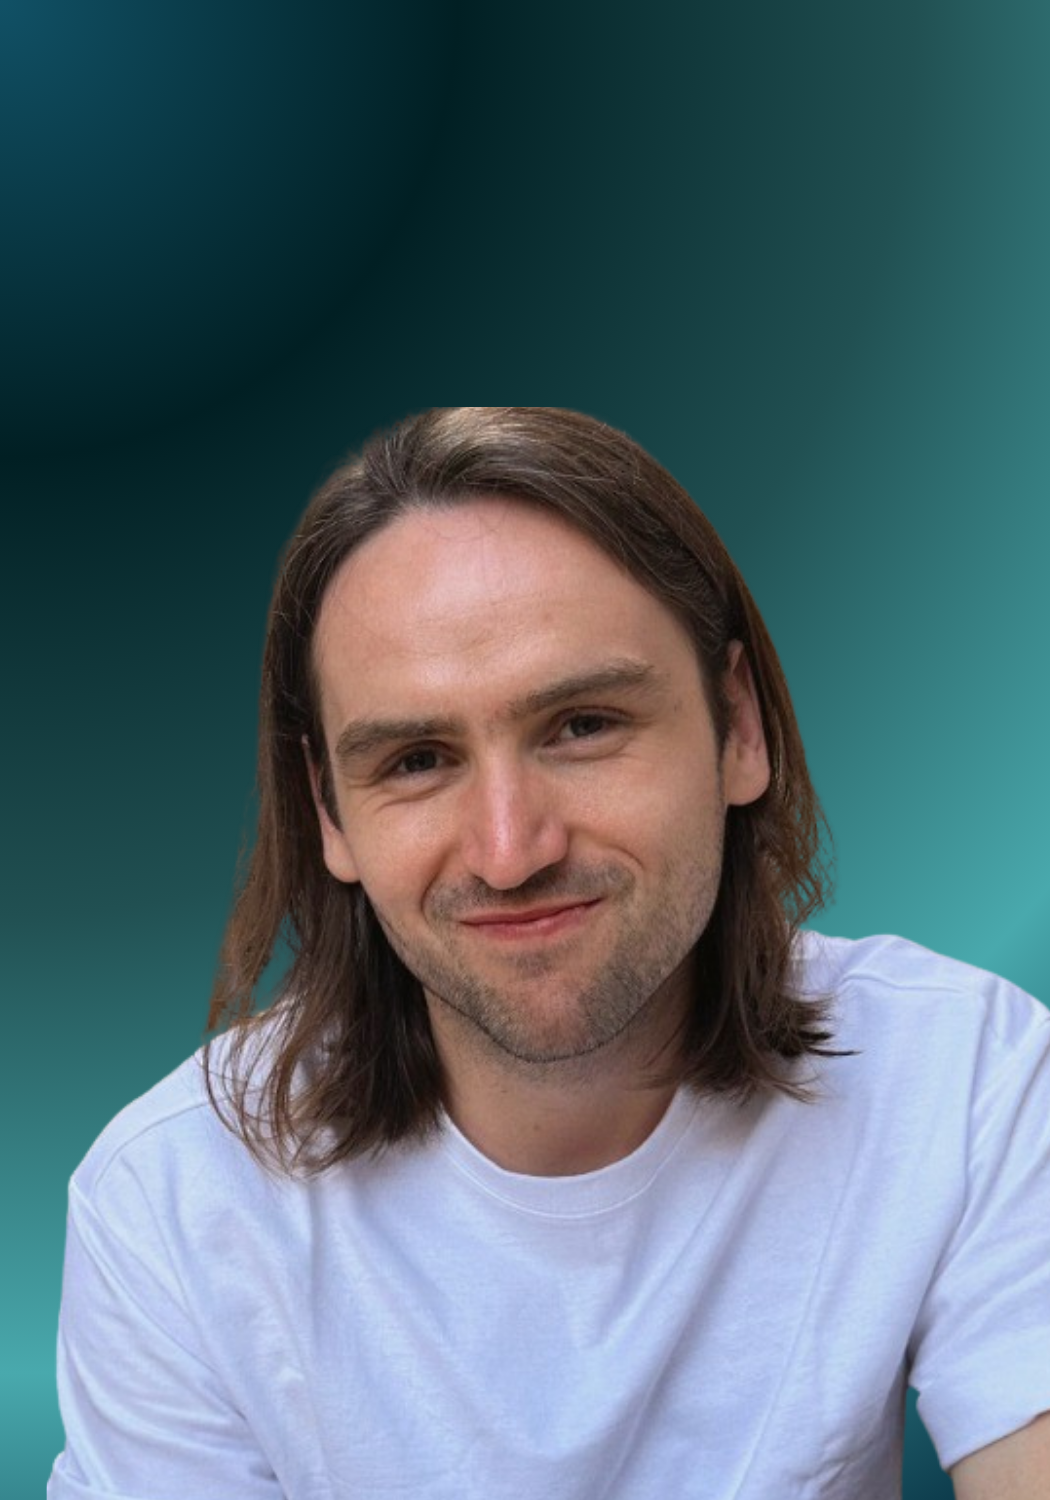
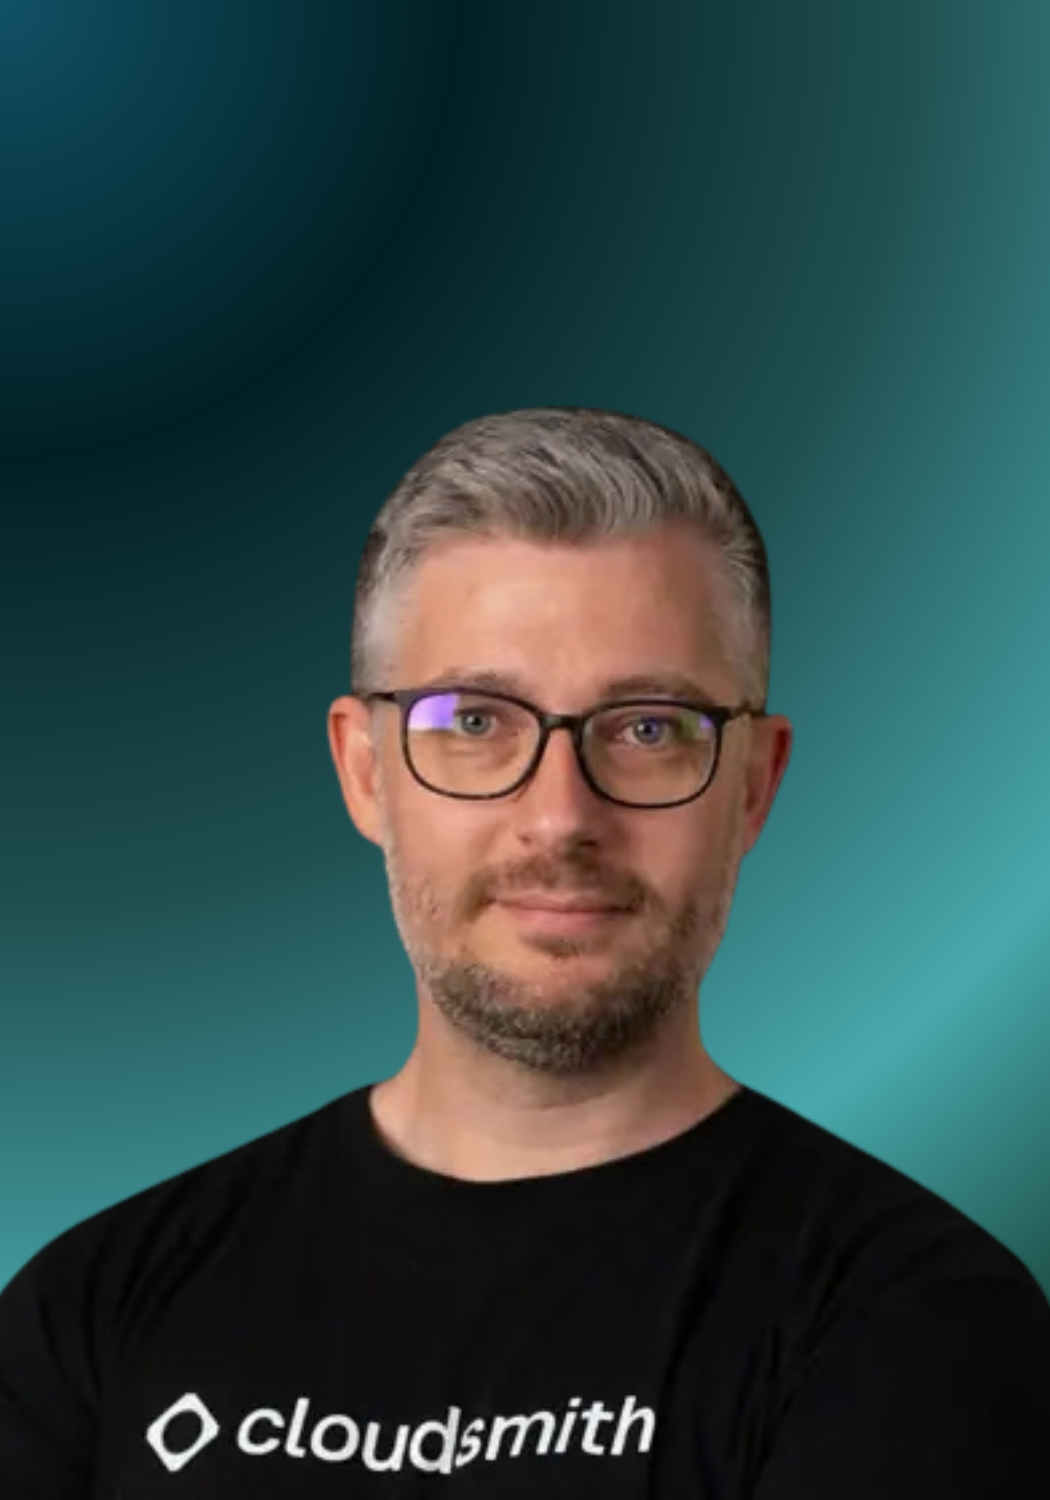
new speaker added

diff --git a/src/data/speakers.ts b/src/data/speakers.ts
@@ -9,6 +9,13 @@ export const speakers: Speaker[] = [
     linkedin: "https://www.linkedin.com/in/chrisbarbin/",
   },
   {
+    name: "Dara Hayes",
+    role: "Senior Software Engineer",
+    company: "Cloudsmith",
+    photo: "/assets/guests/dara-hayes.webp",
+    linkedin: "https://www.linkedin.com/in/dara-hayes-b264685a/",
+  },
+  {
     name: "Eran Gil",
     role: "CEO",
     company: "AllCloud",
@@ -68,7 +75,7 @@ export const speakers: Speaker[] = [
     name: "Nick Peacock",
     role: "VP Customer Success",
     company: "Cloudsmith",
-    photo: "/assets/guests/Nick-Peacock.webp",
+    photo: "/assets/guests/nick-peacock.webp",
     linkedin: "https://www.linkedin.com/in/nickpeacock/",
   },
   {
